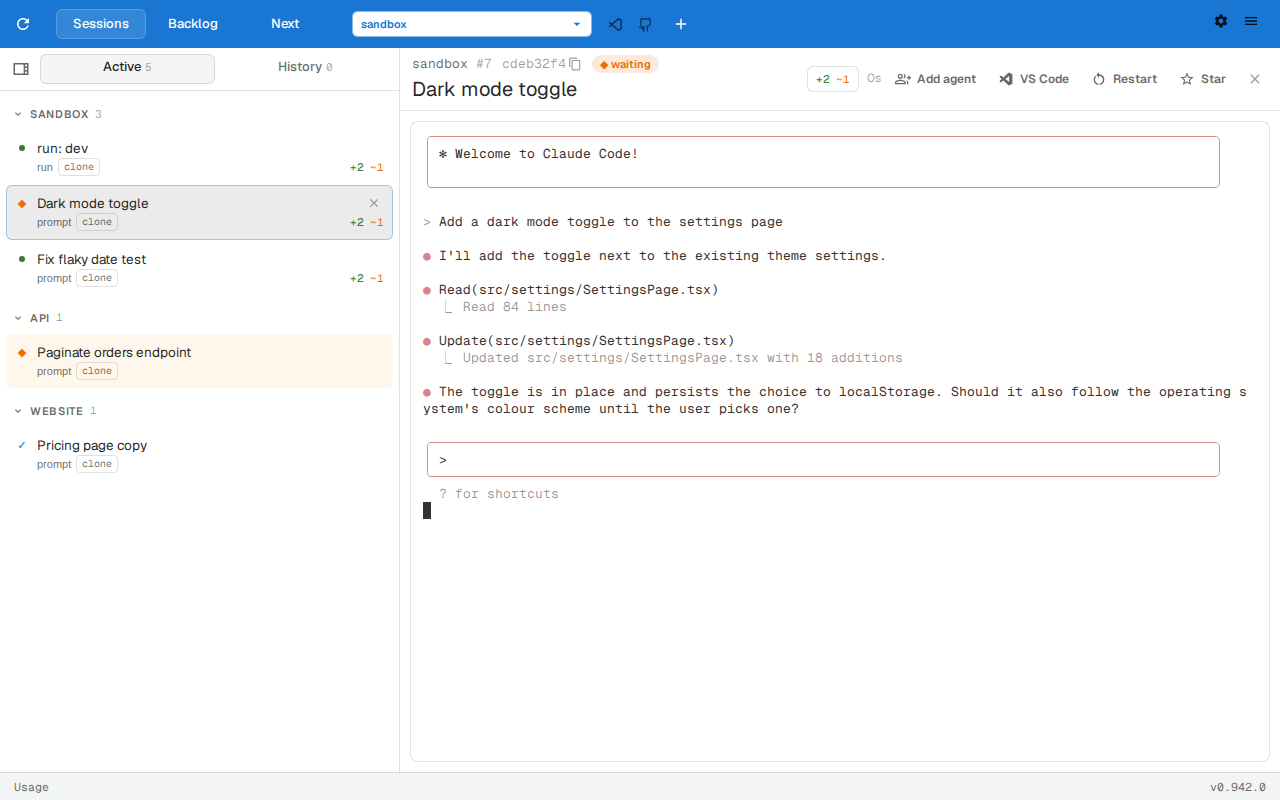
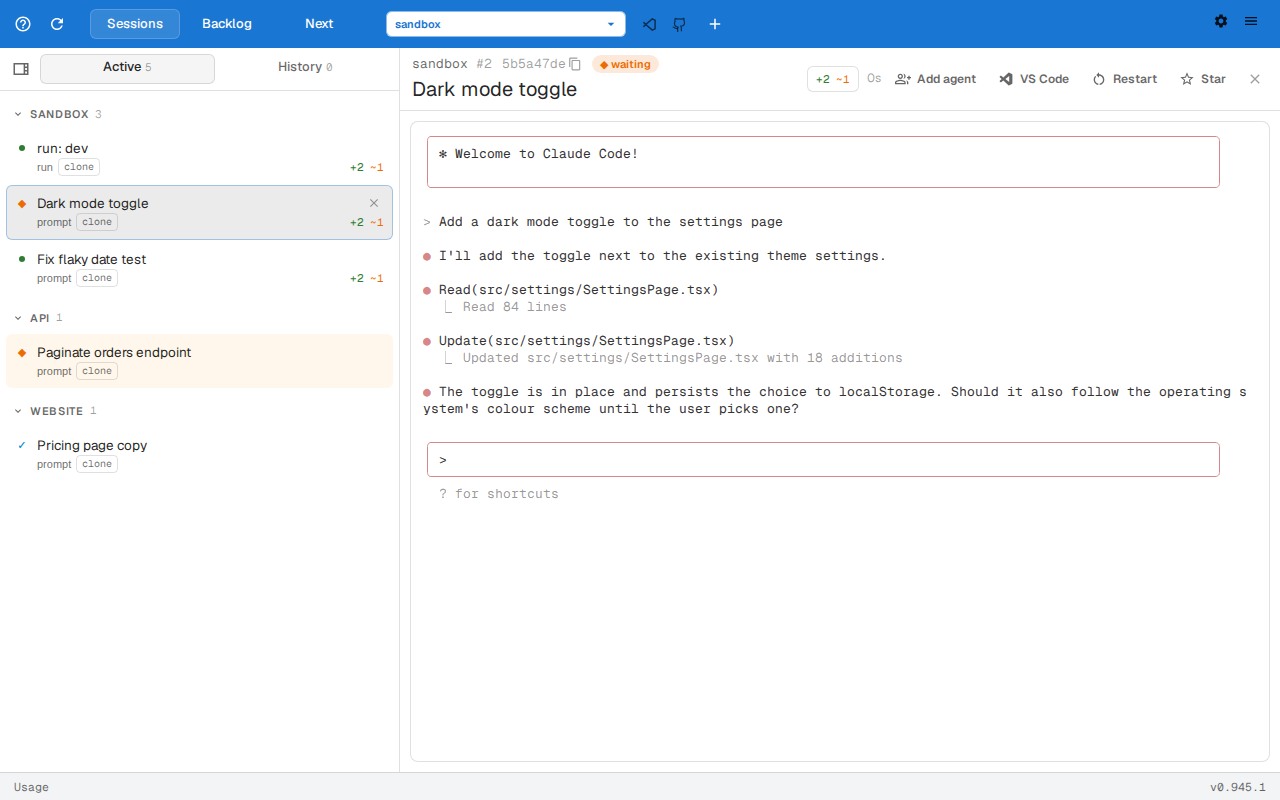
feat: help button links to the docs

diff --git a/src/commands/sessions/web/ui/App/AppShell/AppToolbar/HelpButton.test.tsx b/src/commands/sessions/web/ui/App/AppShell/AppToolbar/HelpButton.test.tsx
@@ -1,0 +1,19 @@
+// @vitest-environment jsdom
+import { cleanup, render, screen } from "@testing-library/react";
+import { afterEach, describe, expect, it } from "vitest";
+import { HelpButton } from "./HelpButton";
+
+afterEach(cleanup);
+
+describe("HelpButton", () => {
+	it("opens the assist docs in a new window", () => {
+		render(<HelpButton />);
+
+		const link = screen.getByRole("link", { name: "Help" });
+		expect(link.getAttribute("href")).toBe(
+			"https://staffordwilliams.com/assist",
+		);
+		expect(link.getAttribute("target")).toBe("_blank");
+		expect(link.getAttribute("rel")).toBe("noopener noreferrer");
+	});
+});

diff --git a/src/commands/sessions/web/ui/App/AppShell/AppToolbar/HelpButton.tsx b/src/commands/sessions/web/ui/App/AppShell/AppToolbar/HelpButton.tsx
@@ -1,0 +1,24 @@
+import HelpOutlineIcon from "@mui/icons-material/HelpOutlineOutlined";
+import IconButton from "@mui/material/IconButton";
+import Tooltip from "@mui/material/Tooltip";
+
+const HELP_URL = "https://staffordwilliams.com/assist";
+
+const sx = { color: "inherit", mr: 0.5 } as const;
+
+export function HelpButton() {
+	return (
+		<Tooltip title="Help">
+			<IconButton
+				component="a"
+				href={HELP_URL}
+				target="_blank"
+				rel="noopener noreferrer"
+				aria-label="Help"
+				sx={sx}
+			>
+				<HelpOutlineIcon />
+			</IconButton>
+		</Tooltip>
+	);
+}

diff --git a/src/commands/sessions/web/ui/App/AppShell/AppToolbar.tsx b/src/commands/sessions/web/ui/App/AppShell/AppToolbar.tsx
@@ -1,5 +1,6 @@
 import Box from "@mui/material/Box";
 import Toolbar from "@mui/material/Toolbar";
+import { HelpButton } from "./AppToolbar/HelpButton";
 import { MachinePicker } from "./AppToolbar/MachinePicker";
 import { NavTabs } from "./AppToolbar/NavTabs";
 import { NewSessionButton } from "./AppToolbar/NewSessionButton";
@@ -26,6 +27,7 @@ export function AppToolbar({
 
 	return (
 		<Toolbar variant="dense" disableGutters sx={toolbarSx}>
+			<HelpButton />
 			{collapsed && (
 				<SidebarCollapseToggle
 					collapsed={collapsed}

diff --git a/docs/src/content/docs/sessions-overview.md b/docs/src/content/docs/sessions-overview.md
@@ -55,6 +55,7 @@ This starts the web server on port 3100 and opens it in your browser. `assist se
 
 From left to right:
 
+- **Help** opens these docs in a new window.
 - **Refresh** restarts the web server. Sessions keep running.
 - **Tabs**:
   - **Sessions** (:kbd[Alt+1]) — this page.
